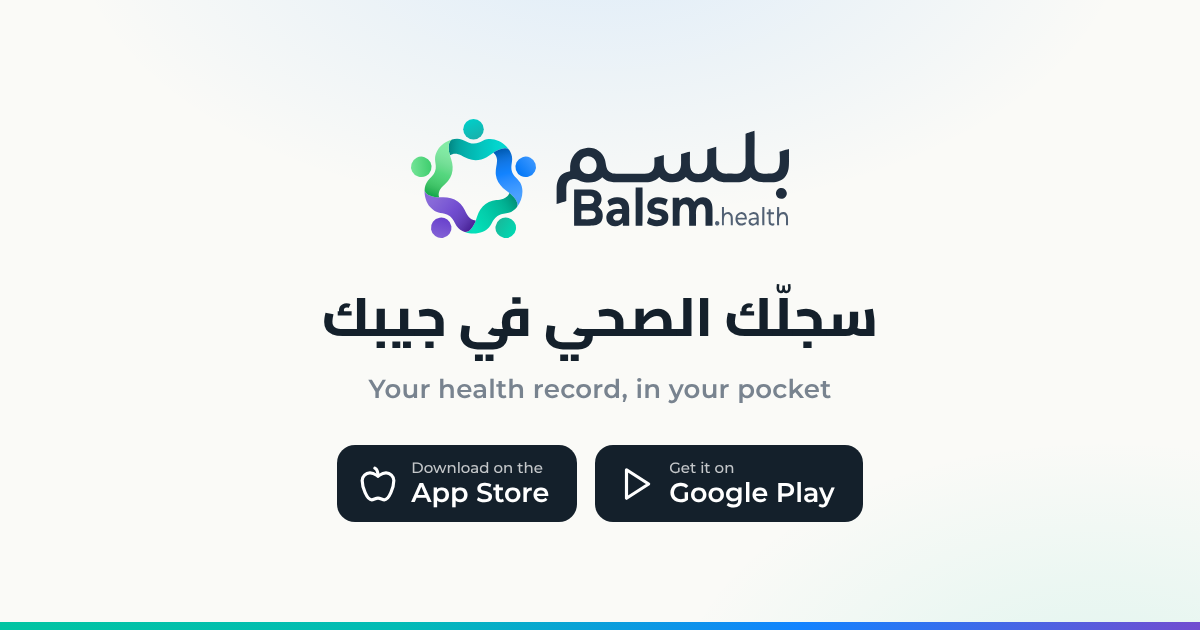
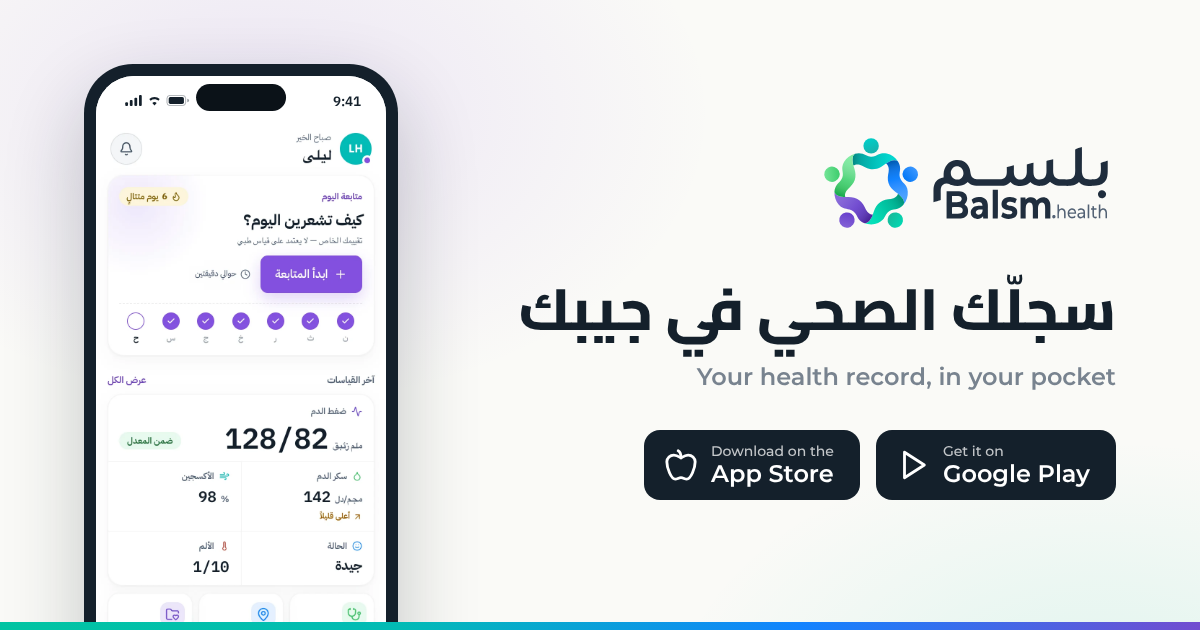
Download link preview: show the app's home screen, per locale
The /download store card now shows the current app home screen in the
same iPhone frame as the pages, beside the headline and store badges.
It comes in two versions: og-image-app.png (Arabic text and screenshot,
for /download) and og-image-app-en.png (English, for /en/download).
seo.ts picks the card by locale, and its alt text now mentions the
screen.

Both are rendered by scripts/generate-brand-assets.mjs from
public/app/home-{ar,en}.webp, so a new app capture only needs a re-run.

Claude-Session: https://claude.ai/code/session_01L44astT1ZqLRc4ARNtjyp4

diff --git a/src/lib/seo.ts b/src/lib/seo.ts
@@ -54,8 +54,8 @@ const OG_IMAGE_ALT = {
 } as const;
 
 const OG_APP_IMAGE_ALT = {
-  ar: 'تطبيق بلسم — سجلّك الصحي في جيبك. متاح على App Store وGoogle Play.',
-  en: 'The Balsm app — your health record, in your pocket. On the App Store and Google Play.',
+  ar: 'تطبيق بلسم — سجلّك الصحي في جيبك، بجانب الشاشة الرئيسية للتطبيق. متاح على App Store وGoogle Play.',
+  en: "The Balsm app — your health record, in your pocket, beside the app's home screen. On the App Store and Google Play.",
 } as const;
 
 /** `brand` is the site-wide card; `app` is the store card for /download. */
@@ -64,13 +64,15 @@ export type OgCard = 'brand' | 'app';
 /**
  * One brand card for the whole site, in both locales — the brand statement, not
  * a per-page illustration. The single exception is /download: that is the URL
- * the app's share sheet prints, so its preview shows the store badges instead.
- * Only the alt text follows the reader's language.
+ * the app's share sheet prints, so its preview shows the app's home screen and
+ * the store badges instead, in the reader's language (og-image-app.png is
+ * Arabic, og-image-app-en.png English). The brand card is bilingual, so only
+ * its alt text follows the locale.
  */
 export function ogImage(locale: string, card: OgCard = 'brand') {
   const alt = card === 'app' ? OG_APP_IMAGE_ALT : OG_IMAGE_ALT;
   return {
-    url: card === 'app' ? '/og-image-app.png' : '/og-image.png',
+    url: card === 'app' ? (locale === 'en' ? '/og-image-app-en.png' : '/og-image-app.png') : '/og-image.png',
     width: 1200,
     height: 630,
     alt: locale === 'en' ? alt.en : alt.ar,
